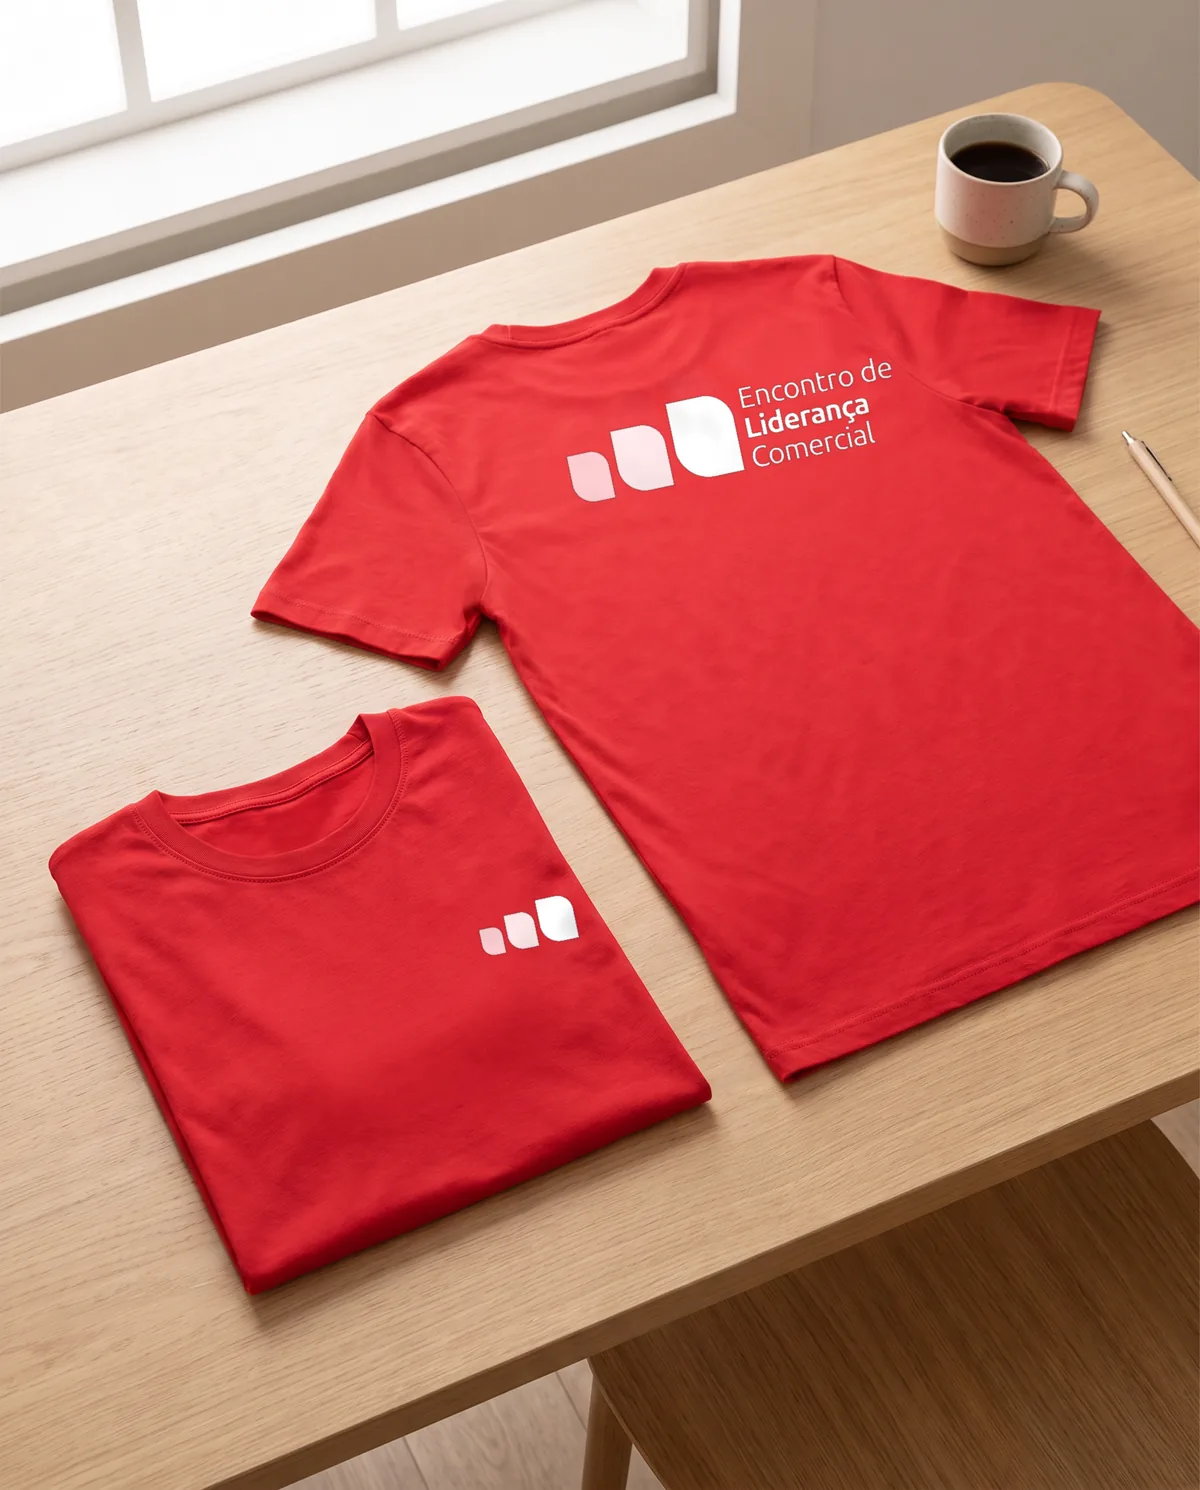
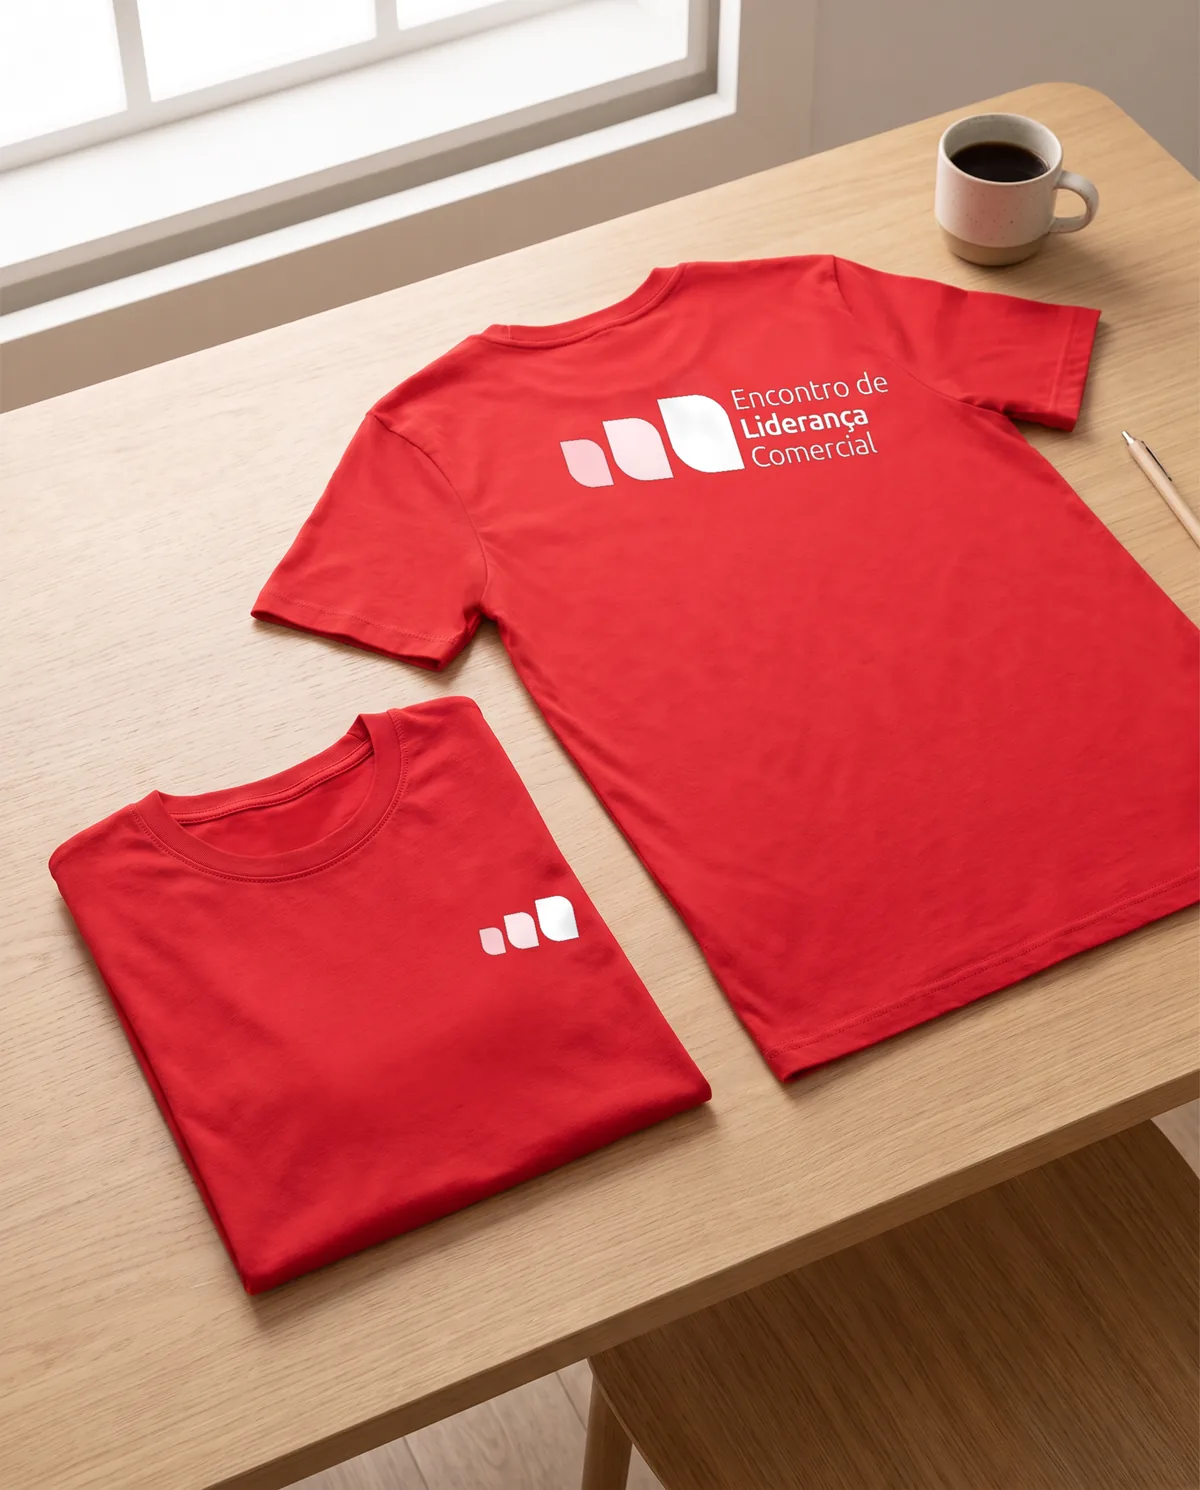
Camiseta vermelha com o Selo B acompanhando a camiseta
O selo das costas segue a linha dos ombros e o corpo da camiseta deitada
(estava girado reto e parecia torto).

Changed region(s): [[0.4625, 0.247, 0.74, 0.3396]]

diff --git a/index.html b/index.html
@@ -368,13 +368,13 @@
       <div class="rotulo">Na prática</div>
       <h2><span class="l">O encontro</span> <span class="f">inteiro</span></h2>
       <div class="fotos">
-        <figure class="foto larga"><img src="assets/aplic-telao.webp?v=19" alt="Telão do auditório com o selo" loading="lazy"><figcaption>Telão do auditório</figcaption></figure>
-        <figure class="foto alta"><img src="assets/aplic-painel.webp?v=19" alt="Painel para fotos" loading="lazy"><figcaption>Painel para fotos</figcaption></figure>
-        <figure class="foto alta"><img src="assets/aplic-agenda.webp?v=19" alt="Bloquinho e caneta" loading="lazy"><figcaption>Bloquinho e caneta</figcaption></figure>
-        <figure class="foto alta"><img src="assets/aplic-copo-1.webp?v=19" alt="Copo branco no coffee break" loading="lazy"><figcaption>Copo branco</figcaption></figure>
-        <figure class="foto alta"><img src="assets/aplic-copo-2.webp?v=19" alt="Copo vermelho na mão" loading="lazy"><figcaption>Copo vermelho</figcaption></figure>
-        <figure class="foto alta"><img src="assets/aplic-camiseta-1.webp?v=19" alt="Camiseta branca no cabide" loading="lazy"><figcaption>Camiseta branca</figcaption></figure>
-        <figure class="foto alta"><img src="assets/aplic-camiseta-2.webp?v=19" alt="Camiseta vermelha dobrada" loading="lazy"><figcaption>Camiseta vermelha</figcaption></figure>
+        <figure class="foto larga"><img src="assets/aplic-telao.webp?v=20" alt="Telão do auditório com o selo" loading="lazy"><figcaption>Telão do auditório</figcaption></figure>
+        <figure class="foto alta"><img src="assets/aplic-painel.webp?v=20" alt="Painel para fotos" loading="lazy"><figcaption>Painel para fotos</figcaption></figure>
+        <figure class="foto alta"><img src="assets/aplic-agenda.webp?v=20" alt="Bloquinho e caneta" loading="lazy"><figcaption>Bloquinho e caneta</figcaption></figure>
+        <figure class="foto alta"><img src="assets/aplic-copo-1.webp?v=20" alt="Copo branco no coffee break" loading="lazy"><figcaption>Copo branco</figcaption></figure>
+        <figure class="foto alta"><img src="assets/aplic-copo-2.webp?v=20" alt="Copo vermelho na mão" loading="lazy"><figcaption>Copo vermelho</figcaption></figure>
+        <figure class="foto alta"><img src="assets/aplic-camiseta-1.webp?v=20" alt="Camiseta branca no cabide" loading="lazy"><figcaption>Camiseta branca</figcaption></figure>
+        <figure class="foto alta"><img src="assets/aplic-camiseta-2.webp?v=20" alt="Camiseta vermelha dobrada" loading="lazy"><figcaption>Camiseta vermelha</figcaption></figure>
       </div>
       <div class="fotos-nav" aria-hidden="true"><span>Deslize para o lado</span><span class="barra-f"><i></i></span><span><b id="foto-n">1</b> de 7</span></div>
     </div>
